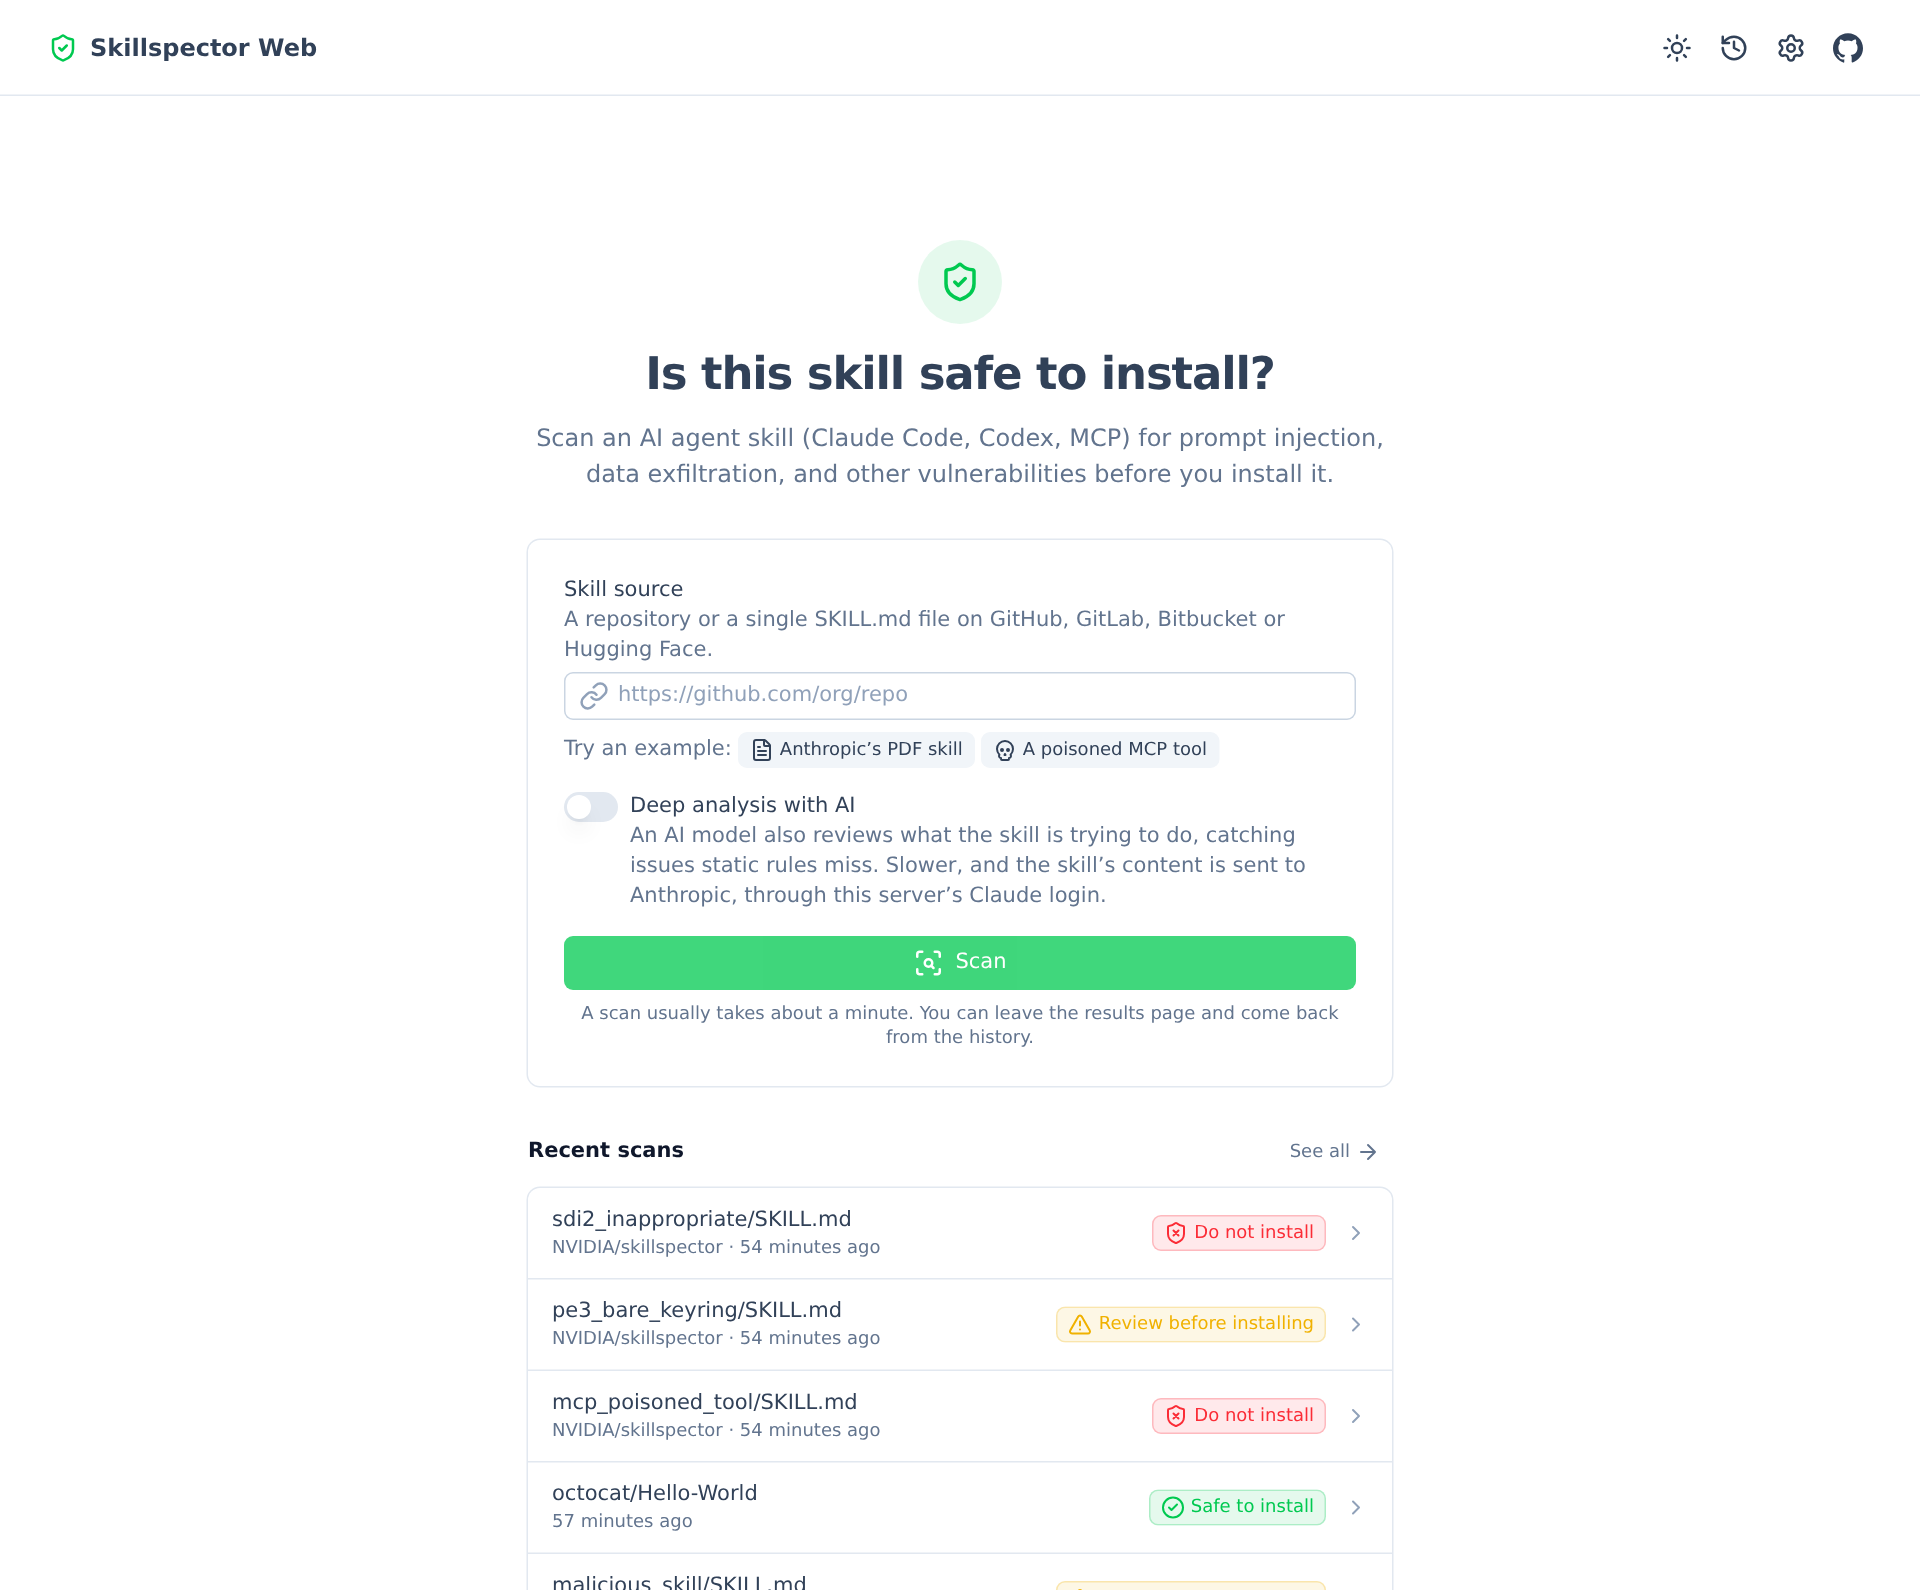
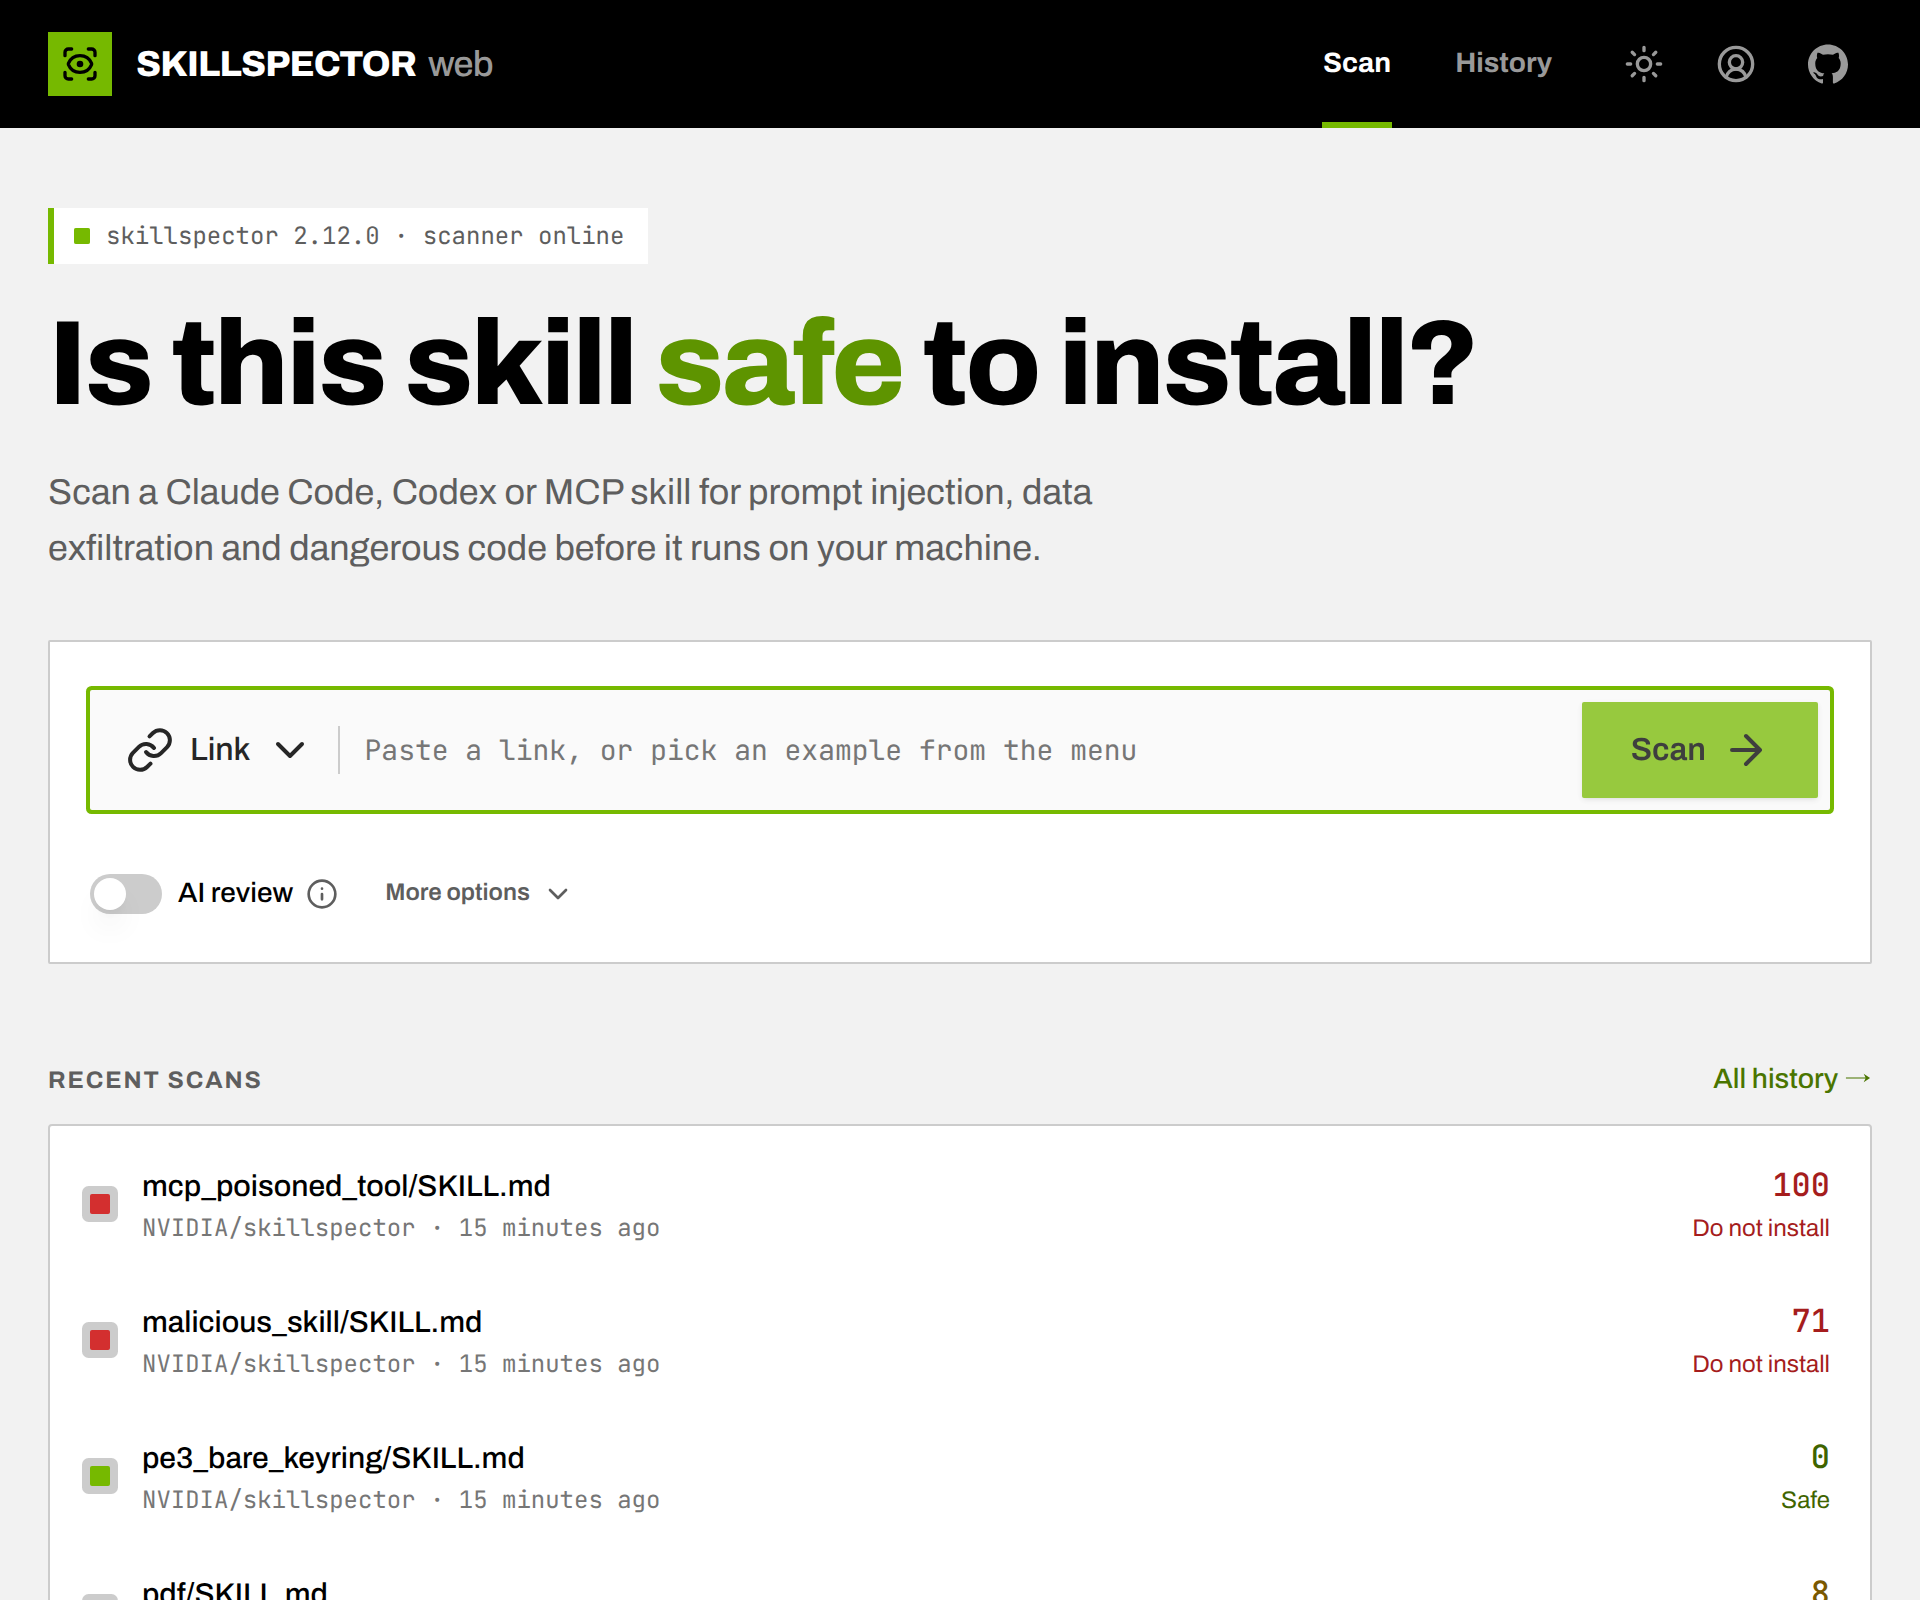
docs: refresh the README screenshots, and script them
The screenshots predated accounts, the backoffice, usage and quotas, and the
current design. They're retaken, light and dark at the same size (960×800 at
2×): the home page, a result, and now the Account page and the backoffice
overview too, in the README's features.

scripts/screenshots.mjs (pnpm screenshots, Playwright) takes them against a
server of its own: on an empty database it creates an admin and a user, scans a
few public example skills, and captures each page in both themes, reusing the
scans when run again. CONTRIBUTING.md says how to run it next to the dev stack,
without real users or the local .env.local.

Closes #83

diff --git a/CONTRIBUTING.md b/CONTRIBUTING.md
@@ -35,6 +35,38 @@ CI runs all of these on every pull request; please run them before pushing.
 
 CI also builds both Docker `production` targets.
 
+## Screenshots
+
+The README's screenshots (`docs/assets/screenshot-*.png`) come from `pnpm screenshots`
+([`scripts/screenshots.mjs`](./scripts/screenshots.mjs)): the home page, a result, the Account page
+and the backoffice, in both themes. Retake them after a UI change.
+
+Run it against a server of its own, never one with real users: on an empty database it creates
+`admin@example.com` and `alex@example.com` and scans a few public example skills as Alex. Give that
+server accounts, quotas (so the Account page shows usage) and a throwaway `SECRET_KEY` (so it shows
+the Claude key), and nothing from your `.env.local`:
+
+```bash
+# An API on its own database, next to the dev stack (docker compose up).
+docker run -d --name skillspector-shots-api --network skillspector-web_internal --network-alias shots-api \
+  -v "$PWD/backend:/app" -v /dev/null:/app/.env.local:ro -v skillspector-shots-data:/tmp/shots \
+  -e SKILLSPECTOR_WEB_AUTH=accounts -e SKILLSPECTOR_WEB_DB_PATH=/tmp/shots/scans.db \
+  -e SKILLSPECTOR_WEB_DAILY_SCAN_QUOTA=20 -e SKILLSPECTOR_WEB_CONCURRENT_SCAN_QUOTA=2 \
+  -e SKILLSPECTOR_WEB_SECRET_KEY="$(docker exec skillspector-api uv run --no-sync python -m app.secrets_box)" \
+  skillspector-web-api uv run --no-sync uvicorn app.main:app --host 0.0.0.0 --port 8000
+
+# A production build of the web app on it (the dev server adds its own overlay).
+pnpm build && NUXT_API_BASE=http://shots-api:8000 PORT=3200 node .output/server/index.mjs  # in the web container
+
+# The screenshots, with Playwright's own browser.
+docker run --rm --network skillspector-web_internal --user "$(id -u):$(id -g)" -e HOME=/tmp \
+  -e BASE_URL=http://skillspector-web:3200 -v "$PWD:/work" -w /work \
+  mcr.microsoft.com/playwright:v1.63.0-noble node scripts/screenshots.mjs
+```
+
+Running it again reuses the scans, so their times read "minutes ago" rather than "seconds ago".
+Then `docker rm -f skillspector-shots-api && docker volume rm skillspector-shots-data`.
+
 ## Pull requests
 
 - Keep each pull request to one change, with tests when behaviour changes.

diff --git a/README.md b/README.md
@@ -24,7 +24,7 @@ or deploy to Vercel.
 
 <picture>
   <source media="(prefers-color-scheme: dark)" srcset="docs/assets/screenshot-home-dark.png">
-  <img src="docs/assets/screenshot-home-light.png" width="860" alt="The Skillspector Web home page: a skill URL field with examples, an AI analysis toggle, and a list of recent scans with their verdicts.">
+  <img src="docs/assets/screenshot-home-light.png" width="860" alt="The Skillspector Web home page: the headline Is this skill safe to install?, a scan field for a link with an AI review switch, and recent scans with their risk scores and verdicts.">
 </picture>
 
 </div>
@@ -77,7 +77,25 @@ or deploy to Vercel.
 <br>
 <picture>
   <source media="(prefers-color-scheme: dark)" srcset="docs/assets/screenshot-result-dark.png">
-  <img src="docs/assets/screenshot-result-light.png" width="860" alt="A scan result: risk score 54, HIGH, Do not install, followed by the list of findings.">
+  <img src="docs/assets/screenshot-result-light.png" width="860" alt="A scan result: the verdict Do not install, its top finding, MCP tool poisoning, and a risk score of 100 out of 100, Critical.">
+</picture>
+</details>
+
+<details>
+<summary><b>Account page</b></summary>
+<br>
+<picture>
+  <source media="(prefers-color-scheme: dark)" srcset="docs/assets/screenshot-account-dark.png">
+  <img src="docs/assets/screenshot-account-light.png" width="860" alt="The Account page: scans used against the daily and in-progress quotas, a Claude key to connect for AI review, and API tokens.">
+</picture>
+</details>
+
+<details>
+<summary><b>Backoffice</b></summary>
+<br>
+<picture>
+  <source media="(prefers-color-scheme: dark)" srcset="docs/assets/screenshot-admin-dark.png">
+  <img src="docs/assets/screenshot-admin-light.png" width="860" alt="The backoffice overview: users and scans this week, whether sign-up and email are on, and the server's health over the last 24 hours.">
 </picture>
 </details>
 
